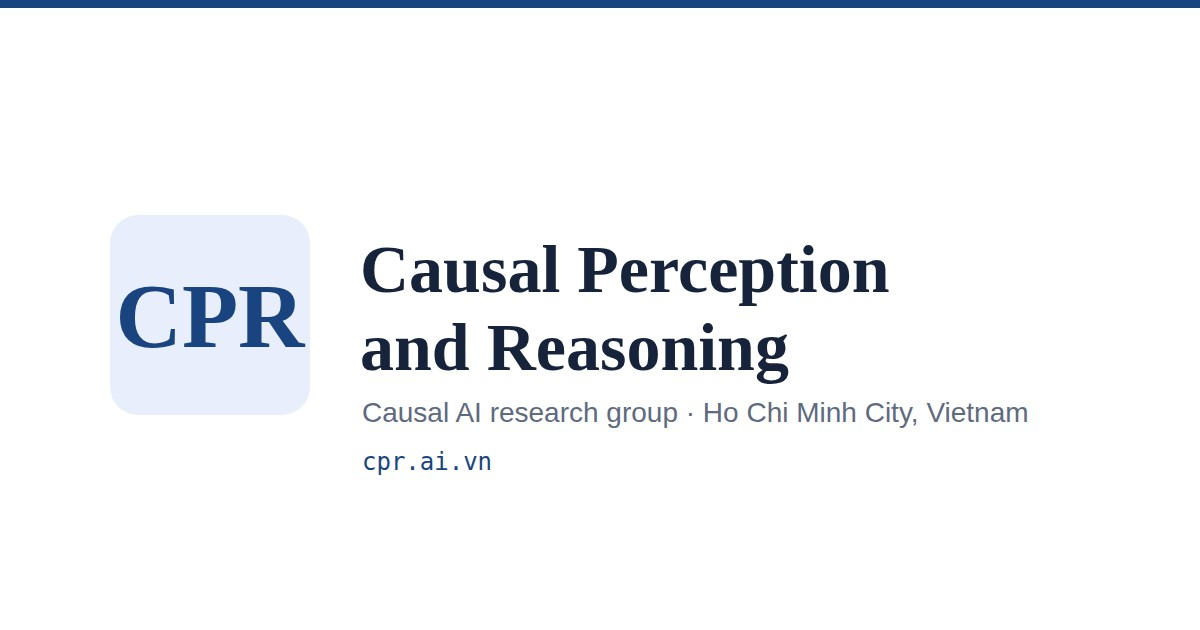
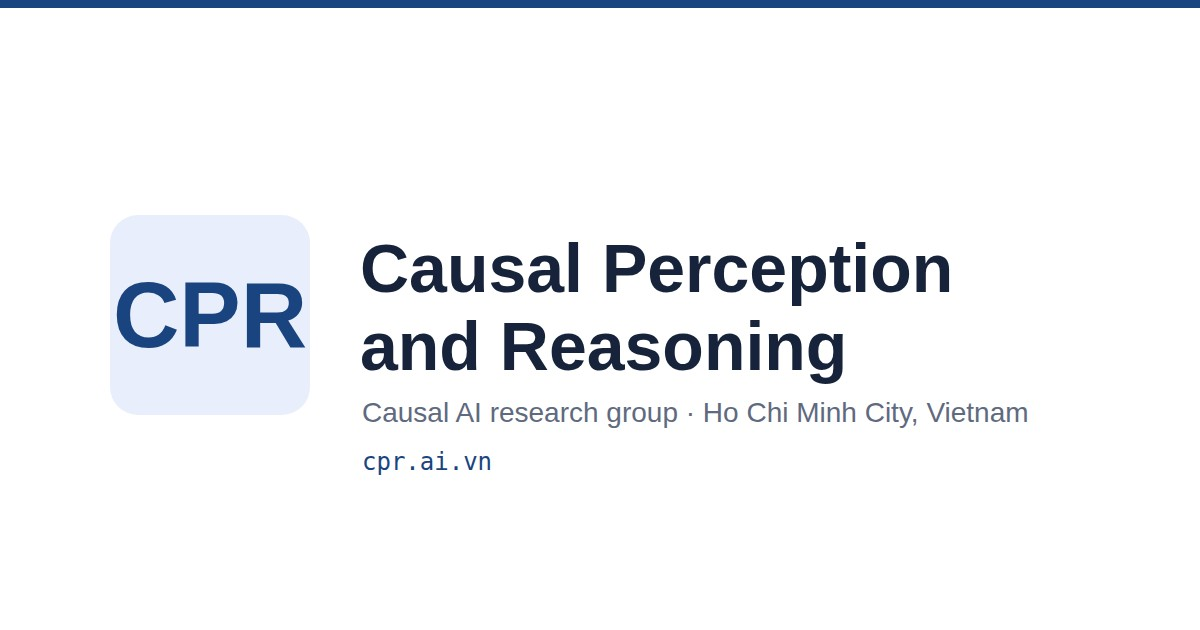
Switch typography to Lato (#86)
Use Lato for body and headings (replacing Roboto / Roboto Slab),
keeping Roboto Mono for code and labels. Update the Google Fonts link
on every page and regenerate the OG banner in the new sans wordmark.
The previous Roboto combo is preserved as the documented switch-back
in variables.css.

Lato ships 400/700/900, so CSS maps semibold 600 to 700 and extrabold
800 to 900; headings stay strong.

Claude-Session: https://claude.ai/code/session_0156jcmTThmSAqNkExB7rGmw

Changed region(s): [[0.3083, 0.3921, 0.8017, 0.4825], [0.3083, 0.5127, 0.7092, 0.6333], [0.0925, 0.4222, 0.2775, 0.573]]

diff --git a/css/variables.css b/css/variables.css
@@ -67,16 +67,20 @@
   --color-on-accent: #ffffff;
 
   /* ── Typography ─────────────────────────────────────── */
-  /* Current: al-folio-style Roboto family.
+  /* Current: Lato for body + headings, Roboto Mono for code/labels.
+     Lato ships 400/700/900 (no 500/600/800): CSS maps semibold 600 -> 700
+     and extrabold 800 -> 900, so headings stay strong; medium 500 falls to
+     400 on the few Lato elements that use it.
      PREVIOUS combo (to switch back, restore these 3 values AND swap the
-     Google Fonts <link> in every *.html — see the URLs below):
-       --font-family: 'Inter', -apple-system, BlinkMacSystemFont, 'Segoe UI', Roboto, sans-serif;
-       --font-display: 'Fraunces', 'Iowan Old Style', Georgia, 'Times New Roman', serif;
-       --font-mono:   'JetBrains Mono', 'Fira Code', 'SF Mono', Consolas, monospace;
-     PREVIOUS <link>: https://fonts.googleapis.com/css2?family=Fraunces:opsz,wght@9..144,400..900&family=Inter:wght@400;500;600;700&family=JetBrains+Mono:wght@400;500;600&display=swap
-     CURRENT  <link>: https://fonts.googleapis.com/css2?family=Roboto:wght@400;500;700&family=Roboto+Slab:wght@500;700;800&family=Roboto+Mono:wght@400;500&display=swap */
-  --font-family: 'Roboto', -apple-system, BlinkMacSystemFont, 'Segoe UI', Helvetica, Arial, sans-serif;
-  --font-display: 'Roboto Slab', Georgia, 'Times New Roman', serif;
+     Google Fonts <link> in every *.html to the PREVIOUS URL below):
+       --font-family: 'Roboto', -apple-system, BlinkMacSystemFont, 'Segoe UI', Helvetica, Arial, sans-serif;
+       --font-display: 'Roboto Slab', Georgia, 'Times New Roman', serif;
+       --font-mono:   'Roboto Mono', 'JetBrains Mono', 'SF Mono', Consolas, monospace;
+     Even earlier combo: Inter / Fraunces / JetBrains Mono.
+     PREVIOUS <link>: https://fonts.googleapis.com/css2?family=Roboto:wght@400;500;700&family=Roboto+Slab:wght@500;700;800&family=Roboto+Mono:wght@400;500&display=swap
+     CURRENT  <link>: https://fonts.googleapis.com/css2?family=Lato:wght@400;700;900&family=Roboto+Mono:wght@400;500&display=swap */
+  --font-family: 'Lato', -apple-system, BlinkMacSystemFont, 'Segoe UI', Helvetica, Arial, sans-serif;
+  --font-display: 'Lato', -apple-system, BlinkMacSystemFont, 'Segoe UI', Helvetica, Arial, sans-serif;
   --font-mono: 'Roboto Mono', 'JetBrains Mono', 'SF Mono', Consolas, monospace;
 
   --font-size-hero: clamp(2.5rem, 5vw, 4rem);

diff --git a/members/vthuynh.html b/members/vthuynh.html
@@ -40,7 +40,7 @@
     <link rel="preconnect" href="https://fonts.googleapis.com">
     <link rel="preconnect" href="https://fonts.gstatic.com" crossorigin>
     <link rel="stylesheet"
-        href="https://fonts.googleapis.com/css2?family=Roboto:wght@400;500;700&family=Roboto+Slab:wght@500;700;800&family=Roboto+Mono:wght@400;500&display=swap">
+        href="https://fonts.googleapis.com/css2?family=Lato:wght@400;700;900&family=Roboto+Mono:wght@400;500&display=swap">
 
     <!-- Styles -->
     <link rel="stylesheet" href="/css/variables.css">

diff --git a/404.html b/404.html
@@ -26,7 +26,7 @@
     <link rel="preconnect" href="https://fonts.googleapis.com">
     <link rel="preconnect" href="https://fonts.gstatic.com" crossorigin>
     <link rel="stylesheet"
-        href="https://fonts.googleapis.com/css2?family=Roboto:wght@400;500;700&family=Roboto+Slab:wght@500;700;800&family=Roboto+Mono:wght@400;500&display=swap">
+        href="https://fonts.googleapis.com/css2?family=Lato:wght@400;700;900&family=Roboto+Mono:wght@400;500&display=swap">
 
     <!-- Styles -->
     <link rel="stylesheet" href="css/variables.css">

diff --git a/achievements.html b/achievements.html
@@ -40,7 +40,7 @@
     <link rel="preconnect" href="https://fonts.googleapis.com">
     <link rel="preconnect" href="https://fonts.gstatic.com" crossorigin>
     <link rel="stylesheet"
-        href="https://fonts.googleapis.com/css2?family=Roboto:wght@400;500;700&family=Roboto+Slab:wght@500;700;800&family=Roboto+Mono:wght@400;500&display=swap">
+        href="https://fonts.googleapis.com/css2?family=Lato:wght@400;700;900&family=Roboto+Mono:wght@400;500&display=swap">
 
     <!-- Styles -->
     <link rel="stylesheet" href="css/variables.css">

diff --git a/members.html b/members.html
@@ -40,7 +40,7 @@
     <link rel="preconnect" href="https://fonts.googleapis.com">
     <link rel="preconnect" href="https://fonts.gstatic.com" crossorigin>
     <link rel="stylesheet"
-        href="https://fonts.googleapis.com/css2?family=Roboto:wght@400;500;700&family=Roboto+Slab:wght@500;700;800&family=Roboto+Mono:wght@400;500&display=swap">
+        href="https://fonts.googleapis.com/css2?family=Lato:wght@400;700;900&family=Roboto+Mono:wght@400;500&display=swap">
 
     <!-- Styles -->
     <link rel="stylesheet" href="css/variables.css">

diff --git a/pain-presence.html b/pain-presence.html
@@ -40,7 +40,7 @@
     <link rel="preconnect" href="https://fonts.googleapis.com">
     <link rel="preconnect" href="https://fonts.gstatic.com" crossorigin>
     <link rel="stylesheet"
-        href="https://fonts.googleapis.com/css2?family=Roboto:wght@400;500;700&family=Roboto+Slab:wght@500;700;800&family=Roboto+Mono:wght@400;500&display=swap">
+        href="https://fonts.googleapis.com/css2?family=Lato:wght@400;700;900&family=Roboto+Mono:wght@400;500&display=swap">
 
     <!-- Styles -->
     <link rel="stylesheet" href="css/variables.css">

diff --git a/projects.html b/projects.html
@@ -40,7 +40,7 @@
     <link rel="preconnect" href="https://fonts.googleapis.com">
     <link rel="preconnect" href="https://fonts.gstatic.com" crossorigin>
     <link rel="stylesheet"
-        href="https://fonts.googleapis.com/css2?family=Roboto:wght@400;500;700&family=Roboto+Slab:wght@500;700;800&family=Roboto+Mono:wght@400;500&display=swap">
+        href="https://fonts.googleapis.com/css2?family=Lato:wght@400;700;900&family=Roboto+Mono:wght@400;500&display=swap">
 
     <!-- Styles -->
     <link rel="stylesheet" href="css/variables.css">

diff --git a/publications.html b/publications.html
@@ -40,7 +40,7 @@
     <link rel="preconnect" href="https://fonts.googleapis.com">
     <link rel="preconnect" href="https://fonts.gstatic.com" crossorigin>
     <link rel="stylesheet"
-        href="https://fonts.googleapis.com/css2?family=Roboto:wght@400;500;700&family=Roboto+Slab:wght@500;700;800&family=Roboto+Mono:wght@400;500&display=swap">
+        href="https://fonts.googleapis.com/css2?family=Lato:wght@400;700;900&family=Roboto+Mono:wght@400;500&display=swap">
 
     <!-- Styles -->
     <link rel="stylesheet" href="css/variables.css">

diff --git a/index.html b/index.html
@@ -41,7 +41,7 @@
   <link rel="preconnect" href="https://fonts.googleapis.com">
   <link rel="preconnect" href="https://fonts.gstatic.com" crossorigin>
   <link rel="stylesheet"
-    href="https://fonts.googleapis.com/css2?family=Roboto:wght@400;500;700&family=Roboto+Slab:wght@500;700;800&family=Roboto+Mono:wght@400;500&display=swap">
+    href="https://fonts.googleapis.com/css2?family=Lato:wght@400;700;900&family=Roboto+Mono:wght@400;500&display=swap">
 
   <!-- Styles -->
   <link rel="stylesheet" href="css/variables.css">
